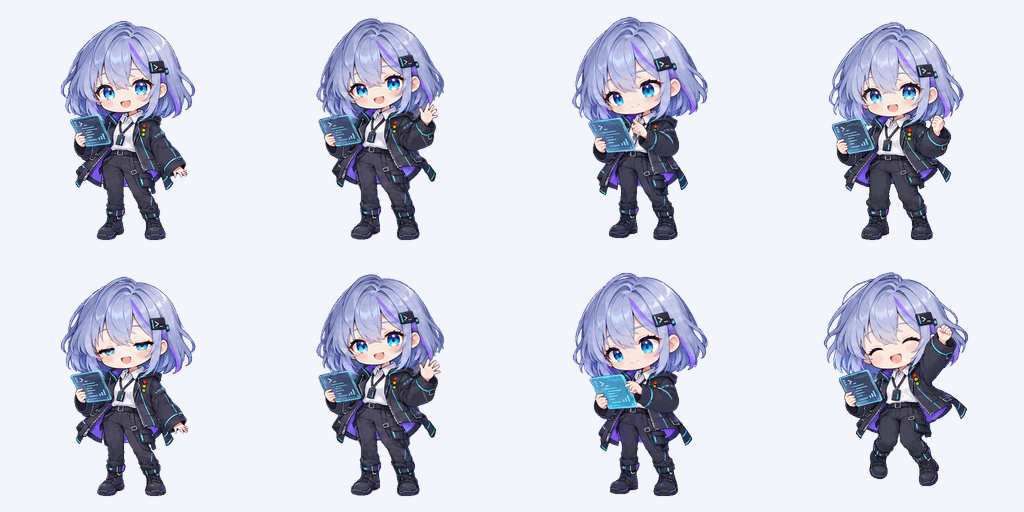
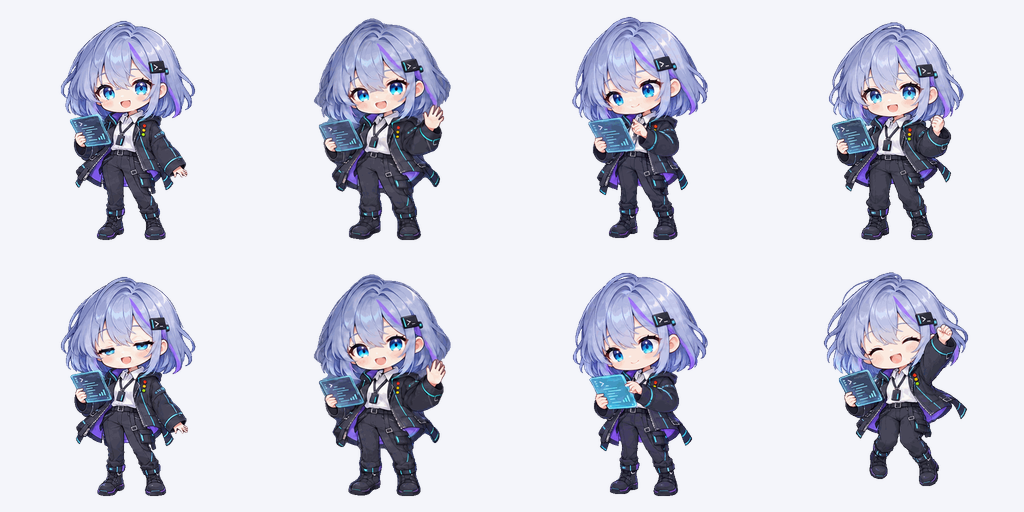
看板娘改为帧动画眨眼，更新动作素材

Changed region(s): [[0.3125, 0.5312, 0.4375, 0.9688], [0.3125, 0.0312, 0.4375, 0.4688]]

diff --git a/src/components/app/DesktopMascot.test.tsx b/src/components/app/DesktopMascot.test.tsx
@@ -178,19 +178,43 @@ describe("DesktopMascot", () => {
     return render(<DesktopMascot locale="zh-CN" onAction={vi.fn()} />);
   }
 
+  it.each([false, true])("plays a complete blink, with optional second blink: %s", double => {
+    startAnimation();
+    vi.mocked(Math.random).mockReturnValue(0.5).mockReturnValueOnce(0).mockReturnValueOnce(0);
+    fireEvent.load(character());
+    advance(2499);
+    expect(character().getAttribute("src")).toContain("idle/01.png");
+    vi.mocked(Math.random).mockReturnValueOnce(double ? 0 : 0.5);
+    advance(1);
+    expect(character().getAttribute("src")).toContain("idle/03.png");
+    advance(60);
+    expect(character().getAttribute("src")).toContain("idle/04.png");
+    advance(80);
+    expect(character().getAttribute("src")).toContain("idle/03.png");
+    advance(80);
+    expect(character().getAttribute("src")).toContain("idle/01.png");
+    advance(170);
+    expect(character().getAttribute("src")).toContain(double ? "idle/03.png" : "idle/01.png");
+    advance(220);
+    expect(character().getAttribute("src")).toContain("idle/01.png");
+    advance(5110);
+    expect(character().getAttribute("src")).toContain("panna-working.gif");
+  });
+
   it.each([
     [0, "wave", 2080],
     [0.4, "working", 3000],
     [0.9, "celebrate", 2080]
   ] as const)("plays random action %s for one full cycle after image load", (random, name, duration) => {
     const { rerender } = startAnimation();
-    vi.mocked(Math.random).mockReturnValueOnce(0).mockReturnValueOnce(random);
-    expect(character().getAttribute("src")).toContain("panna-idle.gif");
+    vi.mocked(Math.random).mockReturnValueOnce(0);
+    expect(character().getAttribute("src")).toContain("frames/idle/01.png");
     advance(20000);
-    expect(character().getAttribute("src")).toContain("panna-idle.gif");
+    expect(character().getAttribute("src")).toContain("frames/idle/01.png");
     fireEvent.load(character());
     advance(7999);
-    expect(character().getAttribute("src")).toContain("panna-idle.gif");
+    expect(character().getAttribute("src")).toContain("frames/idle/01.png");
+    vi.mocked(Math.random).mockReturnValueOnce(random);
     advance(1);
     const actionImage = character();
     expect(actionImage.getAttribute("src")).toContain(`panna-${name}.gif`);
@@ -204,15 +228,19 @@ describe("DesktopMascot", () => {
     advance(duration - 1);
     expect(character()).toBe(actionImage);
     advance(1);
-    expect(character().getAttribute("src")).toContain("panna-idle.gif");
+    expect(character().getAttribute("src")).toContain("frames/idle/01.png");
   });
 
   it("waits up to fifteen seconds and avoids repeating the previous random action", () => {
     startAnimation();
-    vi.mocked(Math.random).mockReturnValueOnce(0.9999).mockReturnValueOnce(0);
+    vi.mocked(Math.random).mockReturnValueOnce(0.9999).mockReturnValueOnce(1);
     fireEvent.load(character());
-    advance(14998);
-    expect(character().getAttribute("src")).toContain("panna-idle.gif");
+    advance(5999);
+    expect(character().getAttribute("src")).toContain("idle/01.png");
+    advance(1);
+    expect(character().getAttribute("src")).toContain("idle/03.png");
+    advance(8998);
+    expect(character().getAttribute("src")).toContain("frames/idle/01.png");
     advance(2);
     expect(character().getAttribute("src")).toContain("panna-wave.gif");
     fireEvent.load(character());
@@ -237,9 +265,9 @@ describe("DesktopMascot", () => {
     expect(screen.getByRole("complementary").querySelector("img")).toBeNull();
     expect(timerCount()).toBe(0);
     fireEvent.click(screen.getByRole("button", { name: "展开看板娘" }));
-    expect(character().getAttribute("src")).toContain("panna-idle.gif");
+    expect(character().getAttribute("src")).toContain("frames/idle/01.png");
     fireEvent.load(character());
-    expect(timerCount()).toBe(1);
+    expect(timerCount()).toBe(2);
     unmount();
     expect(timerCount()).toBe(0);
   });
@@ -256,7 +284,7 @@ describe("DesktopMascot", () => {
     expect(timerCount()).toBe(0);
     hidden.mockReturnValue(false);
     fireEvent(document, new Event("visibilitychange"));
-    expect(character().getAttribute("src")).toContain("panna-idle.gif");
+    expect(character().getAttribute("src")).toContain("frames/idle/01.png");
   });
 
   it("respects reduced motion initially and when the system preference changes", () => {
@@ -269,7 +297,7 @@ describe("DesktopMascot", () => {
     expect(timerCount()).toBe(0);
     reduced = false;
     act(() => { media.dispatchEvent(new Event("change")); });
-    expect(character().getAttribute("src")).toContain("panna-idle.gif");
+    expect(character().getAttribute("src")).toContain("frames/idle/01.png");
     fireEvent.load(character());
     reduced = true;
     act(() => { media.dispatchEvent(new Event("change")); });

diff --git a/src/components/app/DesktopMascot.tsx b/src/components/app/DesktopMascot.tsx
@@ -3,11 +3,12 @@ import type { CSSProperties, PointerEvent } from "react";
 import { Minus, Sparkles } from "lucide-react";
 import type { AgentRunStatus, Locale } from "../../vite-env";
 import mascotImage from "../../assets/mascot/panel-navigator.png";
-import idleImage from "../../assets/mascot/gifs/panna-idle.gif";
 import waveImage from "../../assets/mascot/gifs/panna-wave.gif";
 import workingImage from "../../assets/mascot/gifs/panna-working.gif";
 import celebrateImage from "../../assets/mascot/gifs/panna-celebrate.gif";
 import stillImage from "../../assets/mascot/gifs/frames/idle/01.png";
+import halfClosedImage from "../../assets/mascot/gifs/frames/idle/03.png";
+import closedImage from "../../assets/mascot/gifs/frames/idle/04.png";
 import "./DesktopMascot.css";
 
 export type MascotAction = "create" | "sessions" | "terminal" | "skills" | "mcp" | "settings";
@@ -15,7 +16,7 @@ type Preferences = { collapsed: boolean; animated: boolean; x?: number; y?: numb
 const storageKey = "pannel-handle.desktop-mascot.v1";
 const motionQuery = "(prefers-reduced-motion: reduce)";
 const animations = {
-  idle: { image: idleImage, duration: 3000 },
+  idle: { image: stillImage, duration: 3000 },
   wave: { image: waveImage, duration: 2080 },
   working: { image: workingImage, duration: 3000 },
   celebrate: { image: celebrateImage, duration: 2080 }
@@ -27,9 +28,20 @@ function useMascotAnimation(allowed: boolean) {
   const [reducedMotion, setReducedMotion] = useState(() => window.matchMedia?.(motionQuery).matches ?? false);
   const [visible, setVisible] = useState(() => !document.hidden);
   const [failed, setFailed] = useState(false);
+  const [blinkFrame, setBlinkFrame] = useState(stillImage);
   const [playback, setPlayback] = useState<{ animation: Animation; serial: number; loaded: boolean }>({ animation: "idle", serial: 0, loaded: false });
   const previousAction = useRef<Animation | undefined>(undefined);
   const enabled = allowed && visible && !reducedMotion && !failed;
+
+  useEffect(() => {
+    const images = [stillImage, halfClosedImage, closedImage].map(src => {
+      const image = new Image();
+      image.onerror = () => setFailed(true);
+      image.src = src;
+      return image;
+    });
+    return () => images.forEach(image => { image.onerror = null; });
+  }, []);
 
   useEffect(() => {
     const media = window.matchMedia?.(motionQuery);
@@ -61,10 +73,36 @@ function useMascotAnimation(allowed: boolean) {
     return () => window.clearTimeout(timer);
   }, [enabled, playback]);
 
+  useEffect(() => {
+    setBlinkFrame(stillImage);
+    if (!enabled || !playback.loaded || playback.animation !== "idle") return;
+    let timer: number;
+    const schedule = (callback: () => void, delay: number) => {
+      timer = window.setTimeout(callback, delay);
+    };
+    const wait = () => schedule(() => blink(Math.random() < 0.25), 2500 + Math.random() * 3500);
+    const blink = (double: boolean) => {
+      setBlinkFrame(halfClosedImage);
+      schedule(() => {
+        setBlinkFrame(closedImage);
+        schedule(() => {
+          setBlinkFrame(halfClosedImage);
+          schedule(() => {
+            setBlinkFrame(stillImage);
+            if (double) schedule(() => blink(false), 120 + Math.random() * 100);
+            else wait();
+          }, 80);
+        }, 80);
+      }, 60);
+    };
+    wait();
+    return () => window.clearTimeout(timer);
+  }, [enabled, playback.animation, playback.serial, playback.loaded]);
+
   return {
     enabled,
     failed,
-    image: failed ? mascotImage : enabled ? animations[playback.animation].image : stillImage,
+    image: failed ? mascotImage : enabled ? playback.animation === "idle" ? blinkFrame : animations[playback.animation].image : stillImage,
     key: `${enabled ? "motion" : "still"}-${playback.serial}`,
     onLoad: () => {
       if (!enabled) return;
@@ -89,7 +127,7 @@ function loadPreferences(): Preferences {
 function boundPosition(x: number, y: number, collapsed: boolean) {
   return {
     x: Math.max(8, Math.min(x, window.innerWidth - (collapsed ? 52 : 144) - 8)),
-    y: Math.max(44, Math.min(y, window.innerHeight - (collapsed ? 52 : 192) - 8))
+    y: Math.max(44, Math.min(y, window.innerHeight - (collapsed ? 52 : 232) - 8))
   };
 }
 

diff --git a/src/components/app/DesktopMascot.css b/src/components/app/DesktopMascot.css
@@ -1,8 +1,8 @@
-.desktop-mascot { position: fixed; z-index: 50; width: 144px; height: 192px; pointer-events: none; color: var(--color-text); font-size: 12px; }
+.desktop-mascot { position: fixed; z-index: 50; width: 144px; height: 232px; pointer-events: none; color: var(--color-text); font-size: 12px; }
 .desktop-mascot button, .desktop-mascot input { font: inherit; }
 .desktop-mascot button { cursor: pointer; color: inherit; }
 .desktop-mascot button:focus-visible, .desktop-mascot input:focus-visible { outline: 2px solid var(--color-info-text); outline-offset: 2px; }
-.desktop-mascot-controls { display: flex; justify-content: center; gap: 6px; position: absolute; bottom: 0; left: 0; right: 0; height: 32px; pointer-events: auto; z-index: 1; }
+.desktop-mascot-controls { display: flex; justify-content: center; gap: 6px; position: absolute; bottom: 0; left: 0; right: 0; height: 40px; padding-top: 8px; box-sizing: border-box; pointer-events: auto; z-index: 1; }
 .desktop-mascot-controls button { display: grid; place-items: center; border: 1px solid var(--color-border-strong); border-radius: 8px; background: var(--color-bg-panel); width: 40px; height: 32px; padding: 0; }
 .desktop-mascot-controls[hidden] { display: none; }
 .desktop-mascot.is-dragging .desktop-mascot-character { cursor: grabbing; }

diff --git a/src/assets/mascot/gifs/README.md b/src/assets/mascot/gifs/README.md
@@ -13,7 +13,7 @@
 
 所有 GIF 为 512 × 512、透明背景、无限循环；每款有 8 张不同动作 PNG，部分动画采用往返序列与停顿控制节奏。GIF 仅支持全透明或不透明，PNG 帧保留完整 alpha，适合后续转换成其他格式。
 
-待机播放使用睁眼、半闭眼、闭眼、半闭眼四个阶段，眨眼持续 220 毫秒，其余时间保持同一张睁眼姿态；移除逐帧抬升，减少身体跳动和不同原画之间的切换。
+桌面待机使用 PNG 帧调度：睁眼、半闭眼、闭眼、半闭眼四个阶段，单次眨眼持续 220 毫秒，其余时间保持同一张睁眼姿态。每组眨眼结束后随机等待 2.5–6 秒，75% 概率单次、25% 概率双次；双次之间睁眼停顿 120–220 毫秒。待机帧预加载，眨眼不会重置 8–15 秒随机动作计时；切换动作或暂停时取消眨眼，返回待机后重新等待。保留的待机 GIF 仍为固定 3 秒循环，供素材预览使用。
 
 挥手动画使用重新绘制的八张关键帧，以脚部重心定位，所有帧共用以第一帧 443 像素人物高度确定的缩放比例。保持原画手掌、手指和袖口轮廓，不使用局部像素拉伸变形。
 
@@ -42,7 +42,7 @@ node src/assets/mascot/gifs/assemble.cjs $toolDir wave
 
 ## 验证记录
 
-2026-10-09 挥手修正：上一版局部像素变形造成手掌畸形，已移除该方案及“身体区域像素完全一致”的验证声明，改用原画关键帧。保持 14 帧与 2080 毫秒时长。浏览器工具安全策略拒绝访问本地 file URL，实际播放和 Electron 视觉验收仍未完成。
+2026-10-09 挥手修正：上一版局部像素变形造成手掌畸形，已移除该方案及“身体区域像素完全一致”的验证声明，重新绘制并使用八张原画关键帧。已放大检查八张帧图的手指、手掌与袖口连接，未再发现局部拉伸破损；GIF 解码及脚本语法检查通过，保持 14 帧与 2080 毫秒时长。浏览器工具安全策略拒绝访问本地 file URL，动态自然度和 Electron 视觉验收仍未完成。
 
 2026-10-09：检查四张原始图集与深浅背景解码代表帧；脚本解码所有 GIF 帧并验证尺寸、透明索引、清除前帧设置、循环次数与时长；Chrome 实际加载播放四款 GIF，检查深浅背景显示与预览按钮。动画采用手绘关键帧风格，包含少量帧间线条变化。
 
